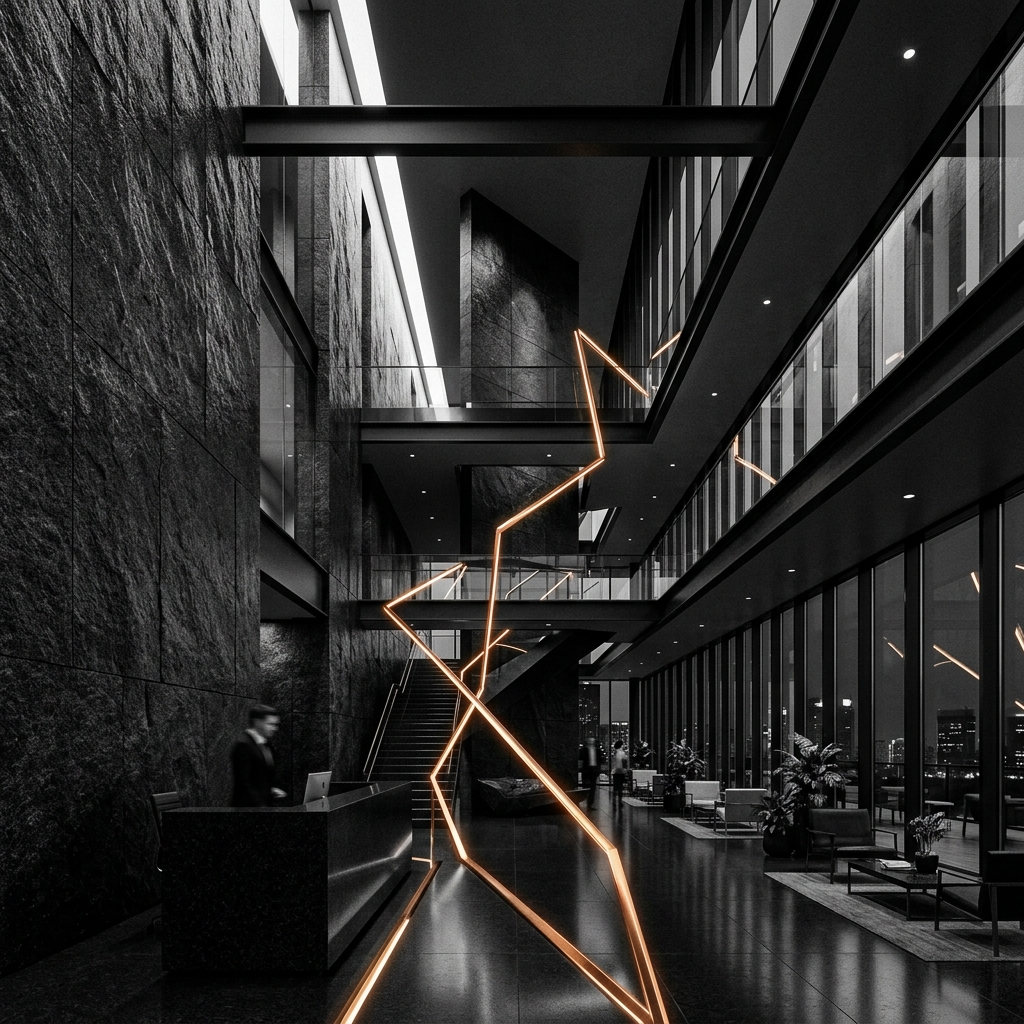
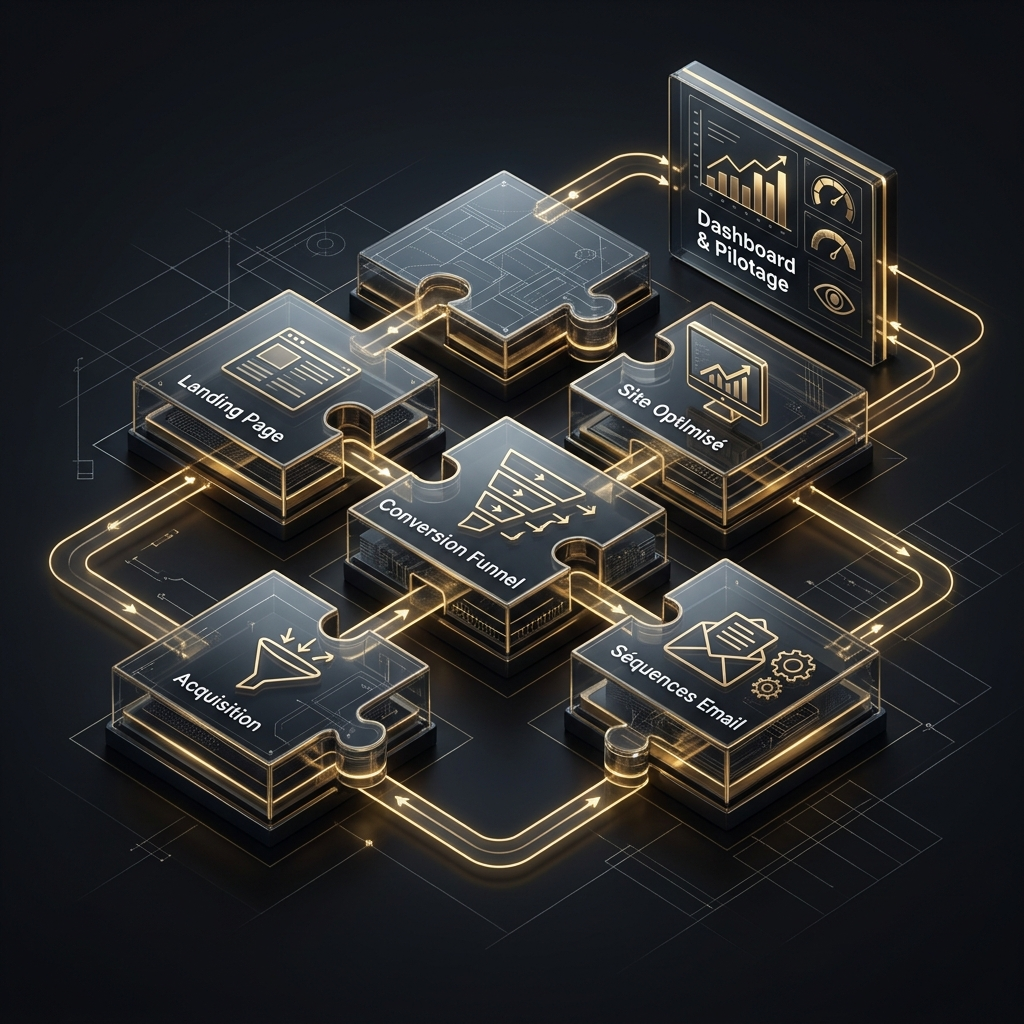
feat: nouvelle illustration architecture briques techniques interconnectées

diff --git a/src/app/page.tsx b/src/app/page.tsx
@@ -132,7 +132,7 @@ export default function HomePage() {
                 </Heading2>
               </div>
               <BodyLarge className="text-lg leading-relaxed pt-2">
-                CARPATH est votre copilote de croissance. Nous installons et pilotons un système de croissance sur-mesure, directement dans votre entreprise. Vous restez aux commandes — nous mettons la méthode, les indicateurs et le pilotage. Le résultat : des décisions fondées sur des données, pas sur des intuitions.
+                CARPATH est votre copilote de croissance. Nous assemblons et pilotons une <strong>architecture de briques techniques interconnectées</strong> — site optimisé, landing pages dédiées, séquences d&apos;emails automatisées, funnels de conversion et tableaux de bord. Chaque brique est intégrée pour générer plus de leads qualifiés et maximiser leur conversion.
               </BodyLarge>
               <div className="pt-4">
                 <ButtonPrimary href="/audit-gratuit" className="py-4 px-8 text-base">
@@ -152,7 +152,7 @@ export default function HomePage() {
               <div className="relative w-full max-w-[540px] aspect-[4/3] rounded-2xl overflow-hidden border border-[#C79A3B]/40 shadow-2xl shadow-black/80 group">
                 <Image
                   src="/images/architecture-bw.png"
-                  alt="Architecture de système de croissance CARPATH"
+                  alt="Architecture de briques techniques interconnectées CARPATH"
                   fill
                   className="object-cover transition-transform duration-700 group-hover:scale-105"
                 />
@@ -161,10 +161,10 @@ export default function HomePage() {
                 <div className="absolute bottom-4 left-4 right-4 bg-[#0D0D0D]/95 backdrop-blur-md p-4 rounded-xl border border-white/20 flex items-center justify-between shadow-lg">
                   <div>
                     <p className="font-heading font-semibold text-xs text-[#C79A3B] tracking-wider uppercase">
-                      ARCHITECTURE SUR-MESURE
+                      ARCHITECTURE TECH INTERCONNECTÉE
                     </p>
                     <p className="text-xs text-white font-medium mt-0.5">
-                      Un système structuré, installé directement dans votre entreprise.
+                      Briques de solutions (site, landing pages, emails, funnels) orchestrées pour capturer et convertir vos leads.
                     </p>
                   </div>
                   <span className="w-3 h-3 rounded-full bg-[#C79A3B] animate-ping" />
